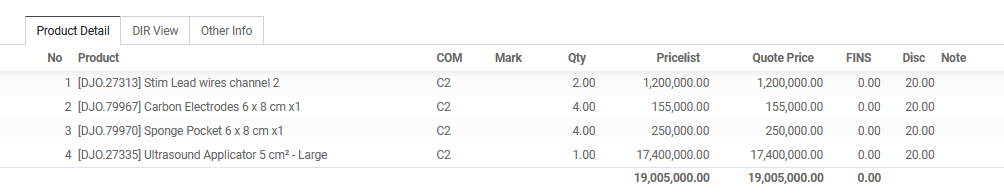
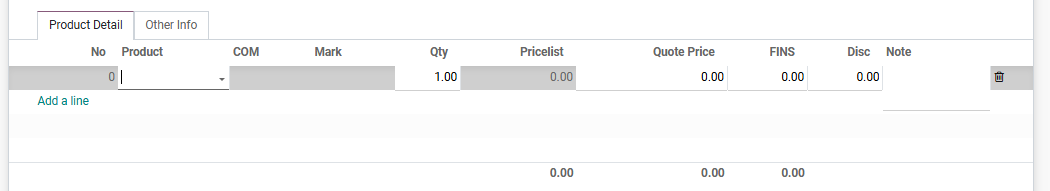
deploy

diff --git a/site/negotiation_sheet/negotiation_sheet/index.html b/site/negotiation_sheet/negotiation_sheet/index.html
@@ -458,10 +458,10 @@
 </li>
       
         <li class="md-nav__item">
-  <a href="#2-memasukkan-produk-dan-harga" class="md-nav__link">
+  <a href="#2-pengisian-produk-dan-harga" class="md-nav__link">
     <span class="md-ellipsis">
       
-        2. Memasukkan Produk dan Harga
+        2. Pengisian Produk dan Harga
       
     </span>
   </a>
@@ -1092,10 +1092,10 @@
 </li>
       
         <li class="md-nav__item">
-  <a href="#2-memasukkan-produk-dan-harga" class="md-nav__link">
+  <a href="#2-pengisian-produk-dan-harga" class="md-nav__link">
     <span class="md-ellipsis">
       
-        2. Memasukkan Produk dan Harga
+        2. Pengisian Produk dan Harga
       
     </span>
   </a>
@@ -1202,23 +1202,22 @@
 <li>Isi <strong>Note</strong> jika diperlukan.</li>
 </ol>
 <p><a class="glightbox" data-type="image" data-width="auto" data-height="auto" href="../images/ns_header.png" data-desc-position="bottom"><img alt="Contoh Pengisian Form NS" src="../images/ns_header.png"></a>
-<em>Gambar 1.1: Tampilan pengisian form pada Negotiation Sheet.</em></p>
+<em>Gambar 1 : Tampilan pengisian form pada Negotiation Sheet.</em></p>
 <hr>
-<h2 id="2-memasukkan-produk-dan-harga">2. Memasukkan Produk dan Harga</h2>
+<h2 id="2-pengisian-produk-dan-harga">2. Pengisian Produk dan Harga</h2>
 <p>Pada tab <strong>Product Detail</strong>, masukkan produk yang ingin ditawarkan kepada pelanggan:</p>
 <ol>
 <li>Klik <strong>Add a line</strong>.</li>
 <li>Pilih produk dari daftar <em>dropdown</em>.</li>
 <li>Masukkan jumlah produk pada kolom <strong>Qty</strong>.</li>
-<li>Sistem akan otomatis menarik harga standar, ongkos kirim, dan diskom. Anda dapat mengubah harga satuan secara manual pada kolom <strong>Quote Price</strong>, mengubah ongkir pada kolom <strong>FINS</strong>, dan mengubah diskon pada kolom <strong>Disc</strong> jika terdapat kesepakatan khusus.</li>
+<li>Sistem akan otomatis menarik harga standar, ongkos kirim, dan diskon. Anda dapat mengubah harga satuan secara manual pada kolom <strong>Quote Price</strong>, mengubah ongkos kirim pada kolom <strong>FINS</strong>, dan mengubah diskon pada kolom <strong>Disc</strong> jika terdapat kesepakatan khusus.</li>
 <li>Isi <strong>Note</strong> jika diperlukan.</li>
 </ol>
 <p><a class="glightbox" data-type="image" data-width="auto" data-height="auto" href="../images/ns_product.png" data-desc-position="bottom"><img alt="Contoh Pengisian Order Lines" src="../images/ns_product.png"></a>
-<em>Gambar 2.1: Tampilan pengisian produk pada tab Product Detail.</em></p>
-<div class="admonition note">
-<p class="admonition-title">Tips Pengisian Cepat</p>
-<p>Anda bisa menekan tombol <code>Tab</code> pada <em>keyboard</em> untuk berpindah antar-kolom di Order Lines dengan lebih cepat tanpa perlu klik <em>mouse</em>.</p>
-</div>
+<em>Gambar 2 : Tampilan pengisian produk pada tab Product Detail.</em></p>
+<!-- !!! note "Tips Pengisian Cepat"
+    Anda bisa menekan tombol `Tab` pada *keyboard* untuk berpindah antar-kolom di Order Lines dengan lebih cepat tanpa perlu klik *mouse*. -->
+
 <hr>
 <h2 id="3-memasukkan-cost-of-sales">3. Memasukkan Cost of Sales</h2>
 <p>Pada tab <strong>Cost of Sales</strong>, masukkan biaya yang ingin ditawarkan kepada pelanggan:</p>
@@ -1229,16 +1228,16 @@
 <li>Isi <strong>Note</strong> jika diperlukan.</li>
 </ol>
 <p><a class="glightbox" data-type="image" data-width="auto" data-height="auto" href="../images/ns_cos.png" data-desc-position="bottom"><img alt="Contoh Pengisian COS Item" src="../images/ns_cos.png"></a>
-<em>Gambar 3.1: Tampilan cos item pada tabel Cost of Sales.</em></p>
+<em>Gambar 3 : Tampilan cos item pada tabel Cost of Sales.</em></p>
 <hr>
 <h2 id="4-menunggu-approval">4. Menunggu Approval</h2>
 <p>Pada state <strong>Waiting Approval</strong>, ada beberapa kondisi berdasarkan warna pada Negotiation Sheet yang dibuat :</p>
 <ol>
 <li>Warna "Hijau" berarti tidak perlu meminta Approval, bisa skip pada langkah ini.</li>
-<li>Warna "Biru" meminta Aproval "RSM".</li>
-<li>Warna "Kuning" meminta Aproval "RSM" kemudian "GSM".</li>
-<li>Warna "Oren" meminta Aproval "RSM" kemudian "GSM" dan "DIR".</li>
-<li>Warna "Merah" meminta Aproval "RSM" kemudian "GSM" dan "DIR".</li>
+<li>Warna "Biru" meminta Approval "RSM".</li>
+<li>Warna "Kuning" meminta Approval "GSM".</li>
+<li>Warna "Oren" meminta Approval "RSM" kemudian "GSM" dan "DIR".</li>
+<li>Warna "Merah" meminta Approval "RSM" kemudian "GSM" dan "DIR".</li>
 </ol>
 <hr>
 <h2 id="5-melakukan-konfirmasi-menjadi-converted">5. Melakukan Konfirmasi menjadi Converted</h2>
@@ -1249,7 +1248,7 @@
 <li>Status dokumen di pojok kanan atas akan otomatis berubah dari <strong>Approved</strong> menjadi <strong>Converted</strong> atau <strong>Partially Converted</strong>.</li>
 </ul>
 <p><a class="glightbox" data-type="image" data-width="auto" data-height="auto" href="../images/ns_convert.png" data-desc-position="bottom"><img alt="Contoh Pengisian pilihan convert" src="../images/ns_convert.png"></a>
-<em>Gambar 4.1: Tampilan confirm Convert To SO.</em></p>
+<em>Gambar 4 : Tampilan confirm Convert To SO.</em></p>
 <!-- !!! warning "Peringatan Penting Sebelum Konfirmasi"
     Pastikan Anda telah memeriksa ulang nilai pada Tabel **Calculation** dan **Warna** yang tertera. Dokumen yang sudah berstatus *Converted* maka sudah bisa lanjut pada modul **Sales**. -->
 
@@ -1261,7 +1260,7 @@
 <li><input type="checkbox"> <strong>Pastikan Bagian COS (Cost of Sales)</strong> sudah sesuai dengan kesepakatan.</li>
 </ul>
 <h3 id="fitur-berdasarkan-hak-akses">Fitur Berdasarkan Hak Akses</h3>
-<div class="tabbed-set tabbed-alternate" data-tabs="1:5"><input checked="checked" id="__tabbed_1_1" name="__tabbed_1" type="radio"><input id="__tabbed_1_2" name="__tabbed_1" type="radio"><input id="__tabbed_1_3" name="__tabbed_1" type="radio"><input id="__tabbed_1_4" name="__tabbed_1" type="radio"><input id="__tabbed_1_5" name="__tabbed_1" type="radio"><div class="tabbed-labels"><label for="__tabbed_1_1">Admin SAS</label><label for="__tabbed_1_2">Direktur</label><label for="__tabbed_1_3">General Sales Manager</label><label for="__tabbed_1_4">Regional Sales Manager</label><label for="__tabbed_1_5">Area Sales Manager</label></div>
+<div class="tabbed-set tabbed-alternate" data-tabs="1:5"><input checked="checked" id="__tabbed_1_1" name="__tabbed_1" type="radio"><input id="__tabbed_1_2" name="__tabbed_1" type="radio"><input id="__tabbed_1_3" name="__tabbed_1" type="radio"><input id="__tabbed_1_4" name="__tabbed_1" type="radio"><input id="__tabbed_1_5" name="__tabbed_1" type="radio"><div class="tabbed-labels"><label for="__tabbed_1_1">Admin SAS</label><label for="__tabbed_1_2">DIR</label><label for="__tabbed_1_3">GSM</label><label for="__tabbed_1_4">RSM</label><label for="__tabbed_1_5">ASM</label></div>
 <div class="tabbed-content">
 <div class="tabbed-block">
 <ul>
@@ -1310,7 +1309,7 @@ Memiliki tampilan Tab perhitungan </p>
     <span class="md-icon" title="Last update">
       <svg xmlns="http://www.w3.org/2000/svg" viewBox="0 0 24 24"><path d="M21 13.1c-.1 0-.3.1-.4.2l-1 1 2.1 2.1 1-1c.2-.2.2-.6 0-.8l-1.3-1.3c-.1-.1-.2-.2-.4-.2m-1.9 1.8-6.1 6V23h2.1l6.1-6.1zM12.5 7v5.2l4 2.4-1 1L11 13V7zM11 21.9c-5.1-.5-9-4.8-9-9.9C2 6.5 6.5 2 12 2c5.3 0 9.6 4.1 10 9.3-.3-.1-.6-.2-1-.2s-.7.1-1 .2C19.6 7.2 16.2 4 12 4c-4.4 0-8 3.6-8 8 0 4.1 3.1 7.5 7.1 7.9l-.1.2z"></path></svg>
     </span>
-    <span class="git-revision-date-localized-plugin git-revision-date-localized-plugin-datetime" title="13 Juli 2026 13:56:02 WIB">13 Juli 2026 13:56:02</span>
+    <span class="git-revision-date-localized-plugin git-revision-date-localized-plugin-datetime" title="13 Juli 2026 14:32:27 WIB">13 Juli 2026 14:32:27</span>
   </span>
 
     